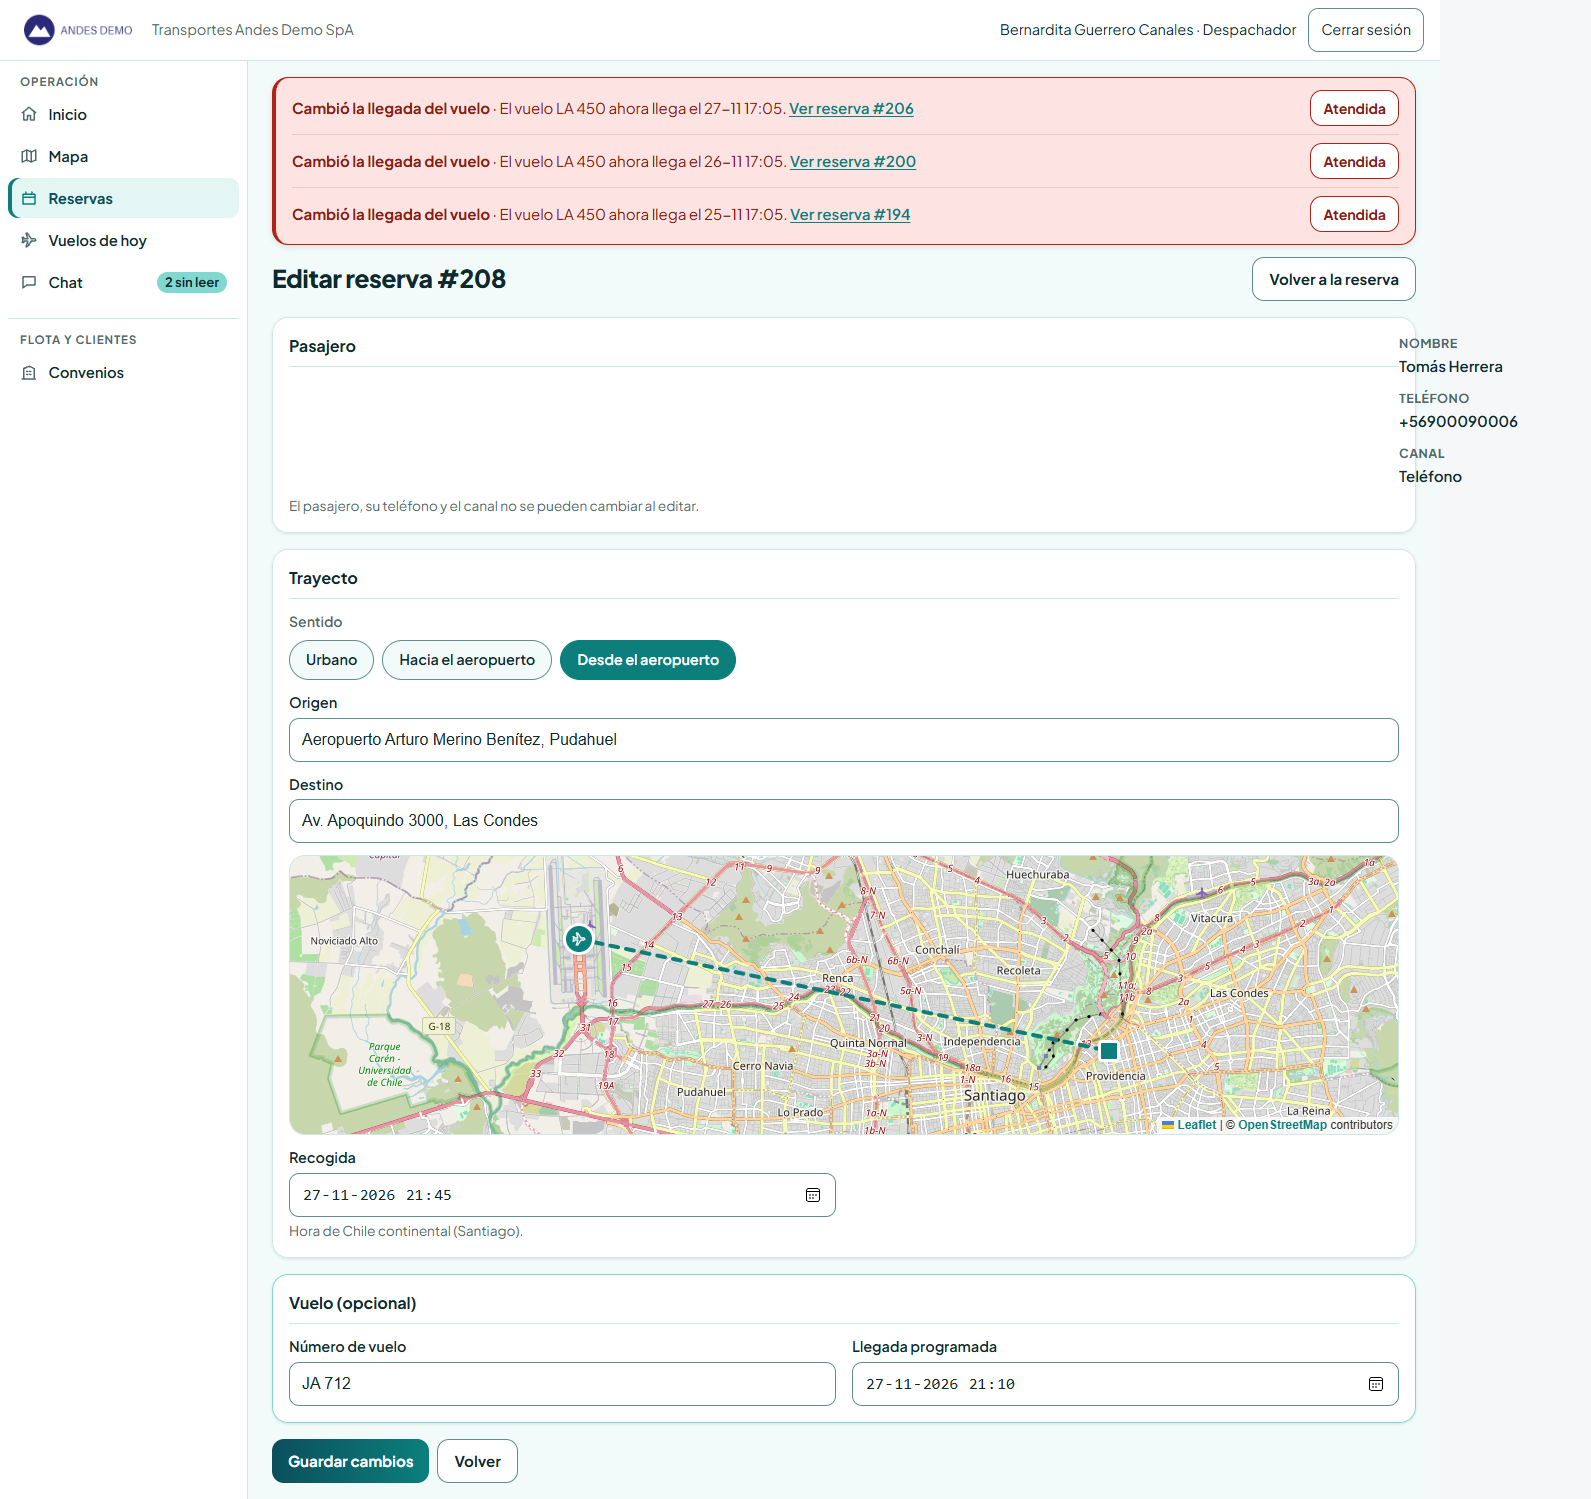
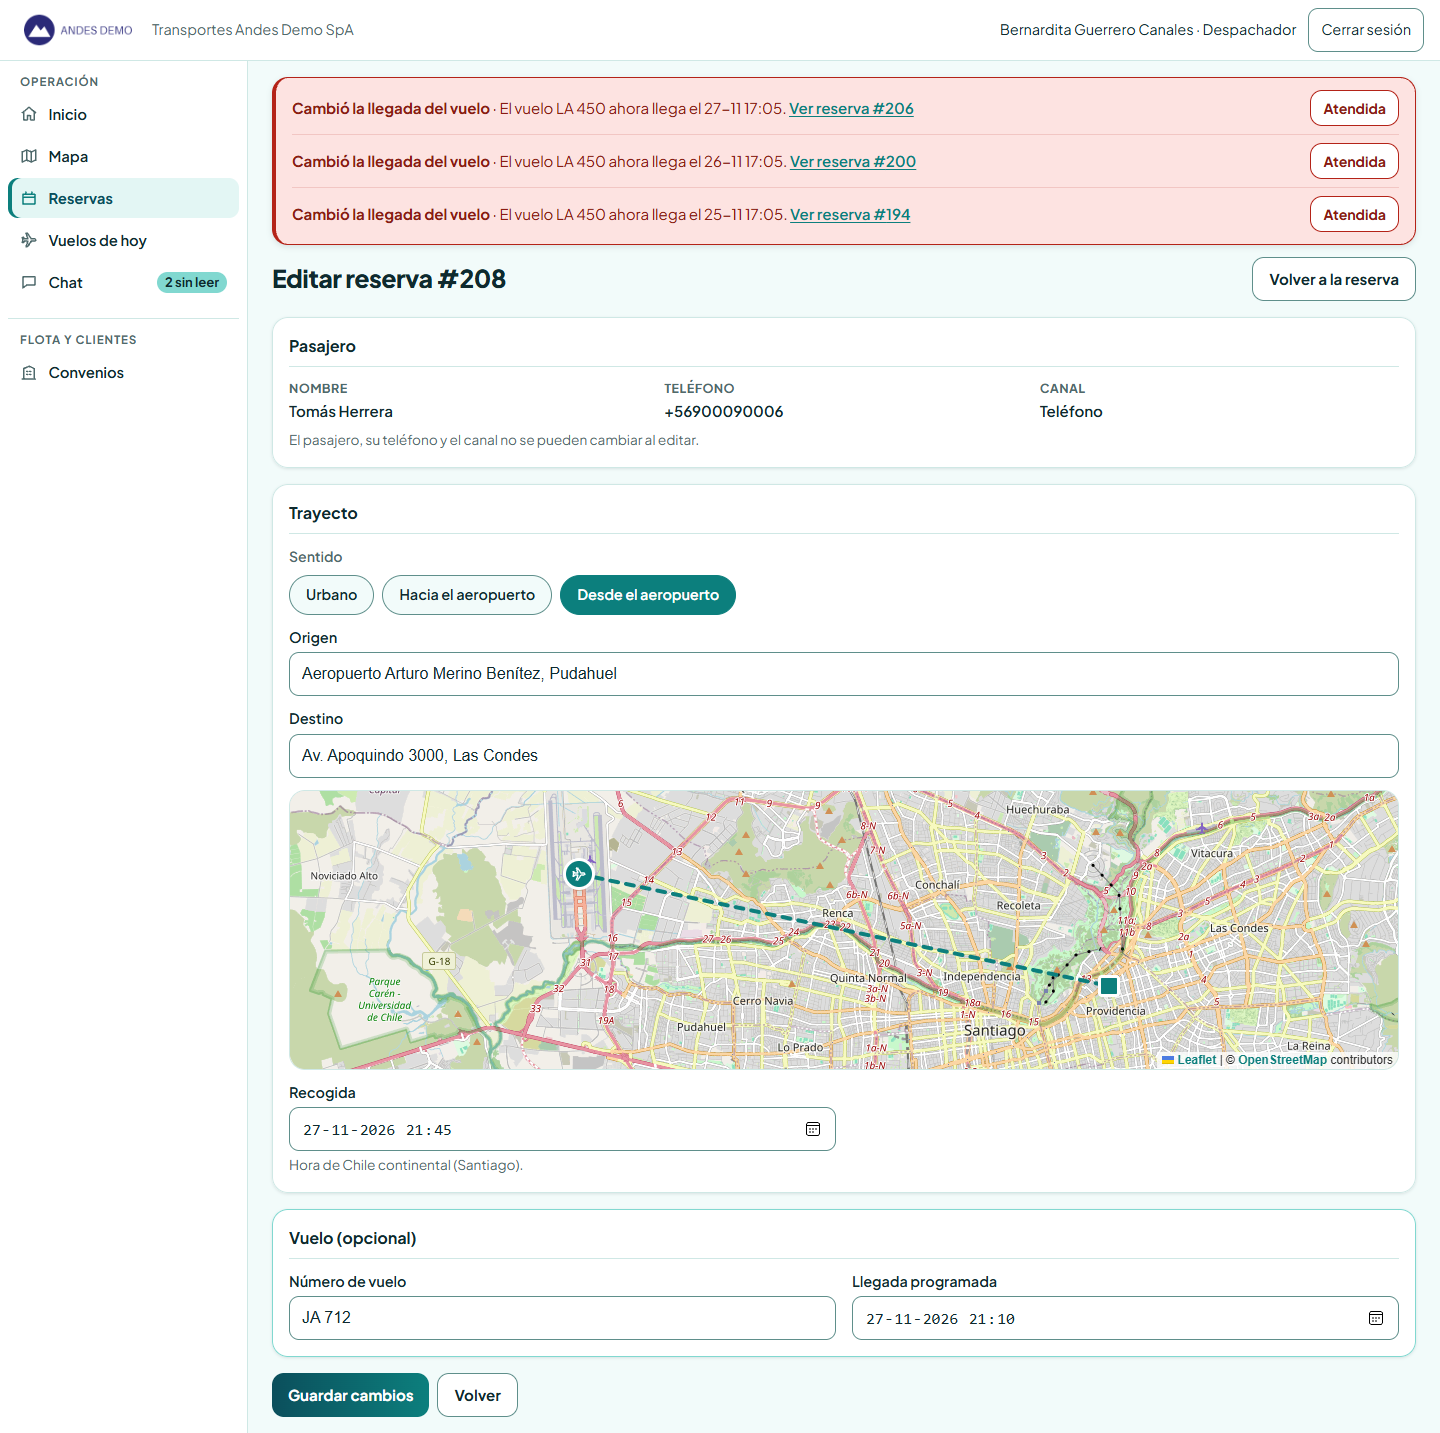
fix(web): mantener los datos del pasajero dentro de su tarjeta al editar (#199)
Corrige el desborde de los datos del pasajero en Editar reserva.

Changed region(s): [[0.0, 0.0, 1.0, 1.0], [0.4688, 0.2456, 0.5312, 0.307], [0.7188, 0.2456, 0.75, 0.307]]

diff --git a/web/src/reservas/componentes/FormularioReserva.module.css b/web/src/reservas/componentes/FormularioReserva.module.css
@@ -54,6 +54,11 @@
   color: var(--texto);
 }
 
+/* La leyenda flota para quedar dentro de la tarjeta: lo que sigue empieza debajo; si no, queda a su lado sin ancho. */
+.leyenda + * {
+  clear: both;
+}
+
 .gridCampos {
   clear: both;
   display: grid;

diff --git a/docs/estado-para-informe.md b/docs/estado-para-informe.md
@@ -68,3 +68,4 @@ informes (`docs/informes/`) la usa para el Anexo P, la trazabilidad y las cifras
 | 2026-11-26 | UX/UI operativa del módulo Vuelos de hoy | `feat/vuelos-ux-mejoras` | Se renovaron `VuelosDeHoy`, `TarjetaVuelo` y el banner `AlertasVuelo` con contadores interactivos por criticidad, tarjeta de filtros homologada con búsqueda rápida local, asignación directa de conductor con `DialogoAsignar` desde la fila (respetando días futuros), acceso rápido a llamada/WhatsApp del pasajero, resaltado visual de urgencias y sincronización cruzada con alertas. | Lint, typecheck, build (`vite build` + `verificar-carga.mjs`) y 90 pruebas en verde (`vuelosDeHoy.test.tsx`, `alertas.test.tsx`, `listado.test.tsx`, `detalle.test.tsx`); sin cambios en backend ni diccionario de datos. | `web/src/vuelos/VuelosDeHoy.tsx`, `web/src/vuelos/TarjetaVuelo.tsx`, `web/src/vuelos/vuelos.module.css`, `web/src/alertas/AlertasVuelo.tsx`, `web/src/reservas/componentes/ContactoPasajero.tsx`, `web/src/vuelos/vuelosDeHoy.test.tsx`; `#191` |
 | 2026-11-26 | HU-71 · El punto elegido se ve en el mapa de los formularios (corrección, #195) | `fix/HU-71-punto-en-mapa` | Un componente compartido muestra el punto de las direcciones elegidas, y el aeropuerto en los viajes de aeropuerto: con un punto lo centra y con los dos los encuadra y los une con una línea punteada. Se ve al costado en /pedir y bajo las direcciones en la reserva sin cuenta, la reserva de convenio sin cuenta, Mi convenio y el formulario del despachador (nueva y editar, con los puntos guardados). Escribir a mano quita el pin. Contingencia no cambia: sus direcciones son texto simple, sin coordenadas. Sin cambios de backend, dependencias ni variables. | Pruebas automáticas (pines, centrado y una por pantalla) y capturas con datos sintéticos que exigen los dos pines dentro del mapa. Suite web: 998 en verde (cobertura 92,89 %) y verificación de carga del build correcta. | `web/src/diseno/mapa/direcciones.test.tsx`, `web/src/reservas/mapa-formulario.test.tsx`; `docs/evidencias/HU-71/mapa-*-{390,1440}.png`; DC-71 |
 | 2026-11-26 | Pulido de fila en Vuelos de hoy y diálogos flotantes operativos | `feat/vuelos-fila-y-dialogos` (y previa `fix/vuelos-botones-contacto`) | Se alinearon `Llamar` y `WhatsApp` bajo el teléfono del pasajero, se evitó el salto en cabecera `Cuenta regresiva`, se destacó `Recogida`, se añadió aviso `sin confirmar aterrizaje` cuando pasó la hora sin confirmación y estado del viaje junto al conductor; además se renovaron `DialogoAsignar`, `DialogoCancelar` y `DialogoForzar` con ficha compartida (`ResumenViajeDialogo`) y controles homologados. | Lint, typecheck, build y 81 pruebas en verde (`vuelosDeHoy.test.tsx`, `listado.test.tsx`, `detalle.test.tsx`); sin cambios en backend ni diccionario de datos. | `web/src/vuelos/VuelosDeHoy.tsx`, `web/src/vuelos/vuelos.module.css`, `web/src/reservas/componentes/DialogoAsignar.tsx`, `web/src/reservas/componentes/DialogoCancelar.tsx`, `web/src/reservas/componentes/DialogoForzar.tsx`, `web/src/reservas/componentes/ResumenViajeDialogo.tsx`, `web/src/componentes/panel.module.css`; `#193`, `#197` |
+| 2026-11-26 | Corrección · Editar reserva: datos del pasajero fuera de su tarjeta | `fix/editar-reserva-pasajero` | Desde el rediseño del formulario (#186), al editar una reserva los datos de solo lectura del pasajero quedaban al lado de la leyenda flotante, sin ancho, y su texto se salía de la tarjeta (102 px a 390 px de ancho). Lo que sigue a una leyenda ahora empieza debajo. | La captura de Editar falla si el texto se sale de la tarjeta: reproducido antes de corregir y en verde después, a 390 y 1440 px. Suite web: 998 en verde (cobertura 92,89 %) y build correcto. | `web/scripts/capturas.mjs`; `docs/evidencias/HU-71/mapa-despacho-editar-{390,1440}.png` |
